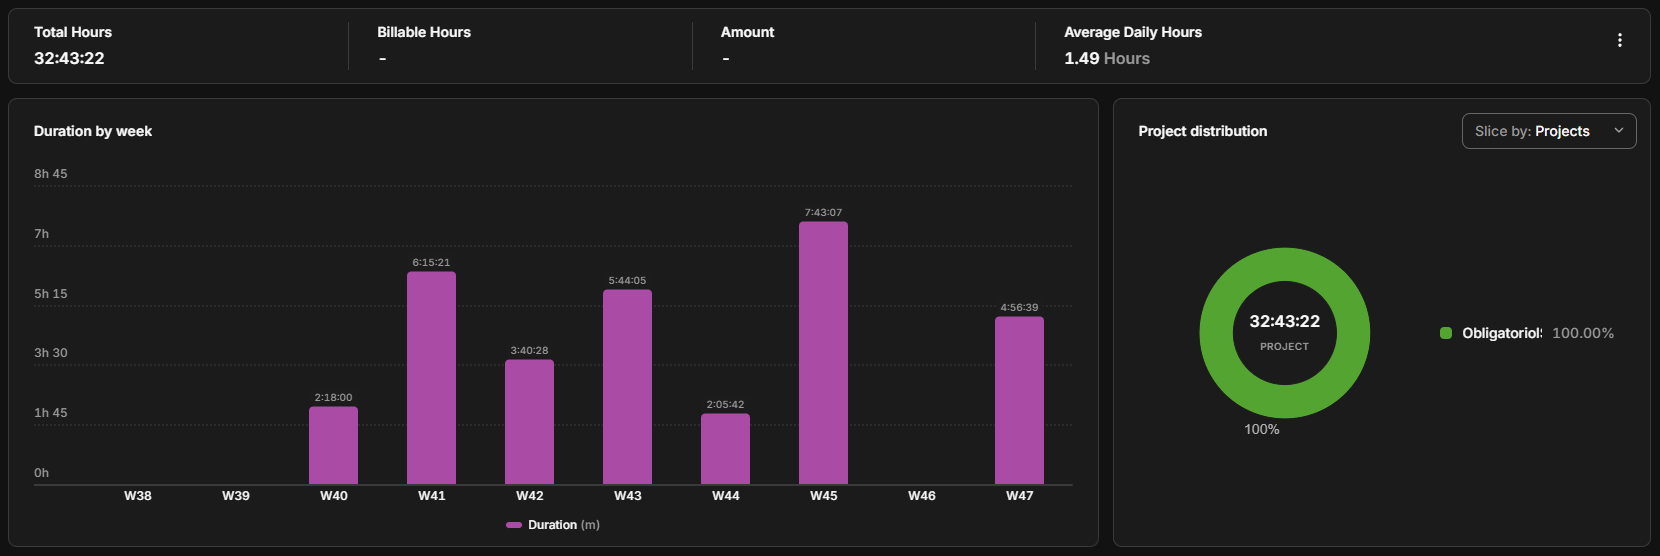
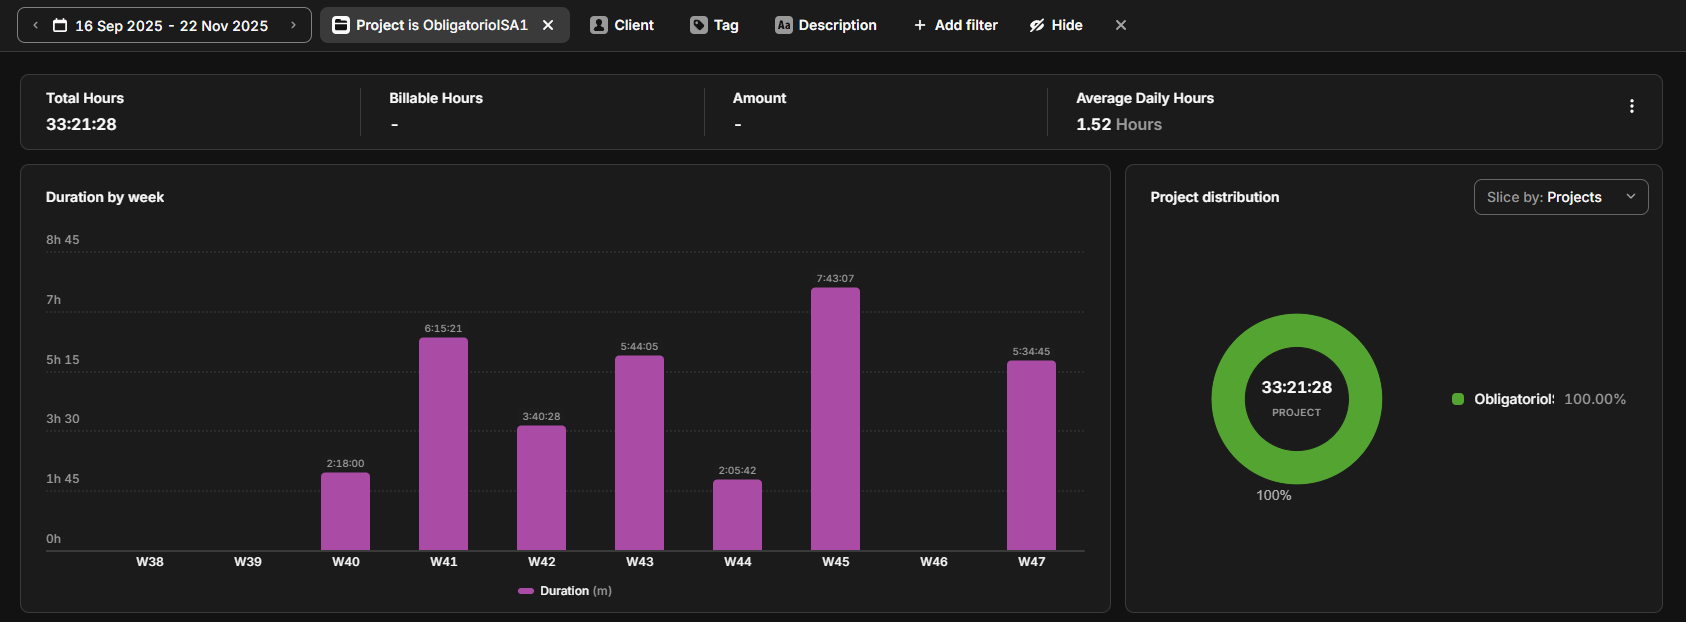
- update horas

diff --git a/README.md b/README.md
@@ -182,7 +182,7 @@ Para saber cuanto tiempo le dedicamos a cada parte del proyecto utilizamos **Tog
 **Total de horas trabajadas:** 
 
 **Distribución por persona:**
-- Agustín: 32.5 horas
+- Agustín: 33.5 horas
 - Santiago: [Y] horas
 - Franco: [Z] horas
 
